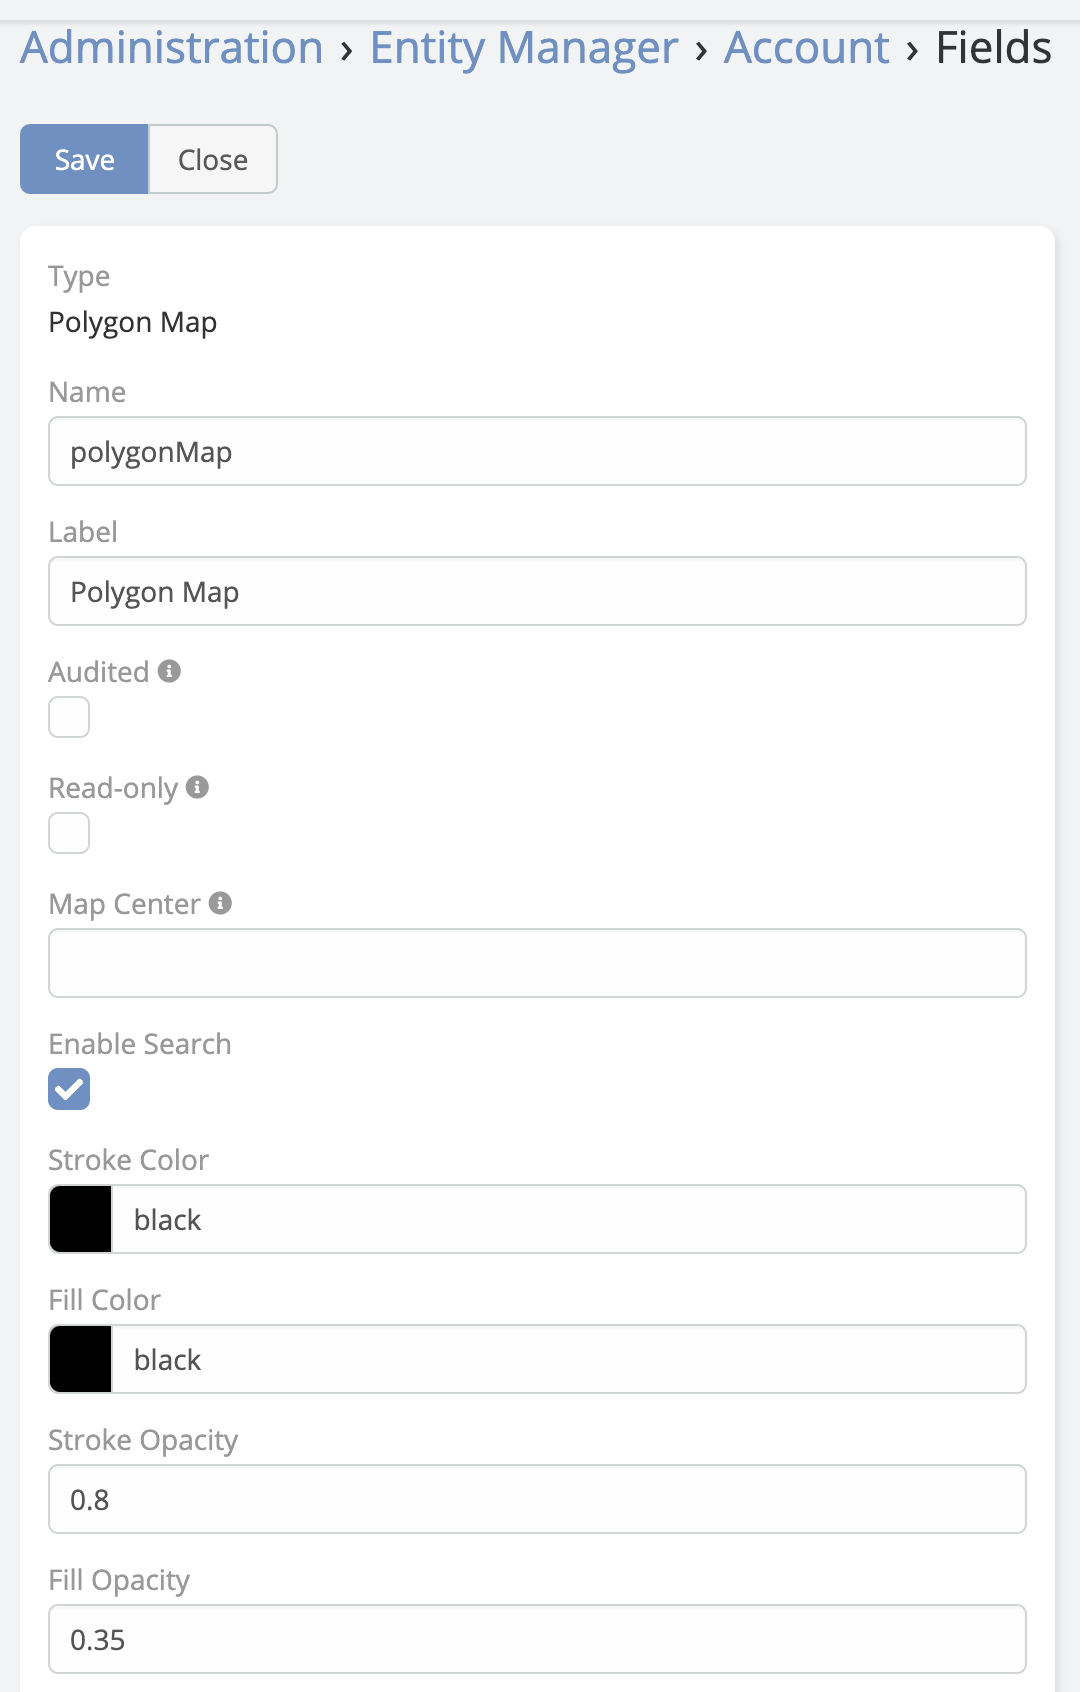
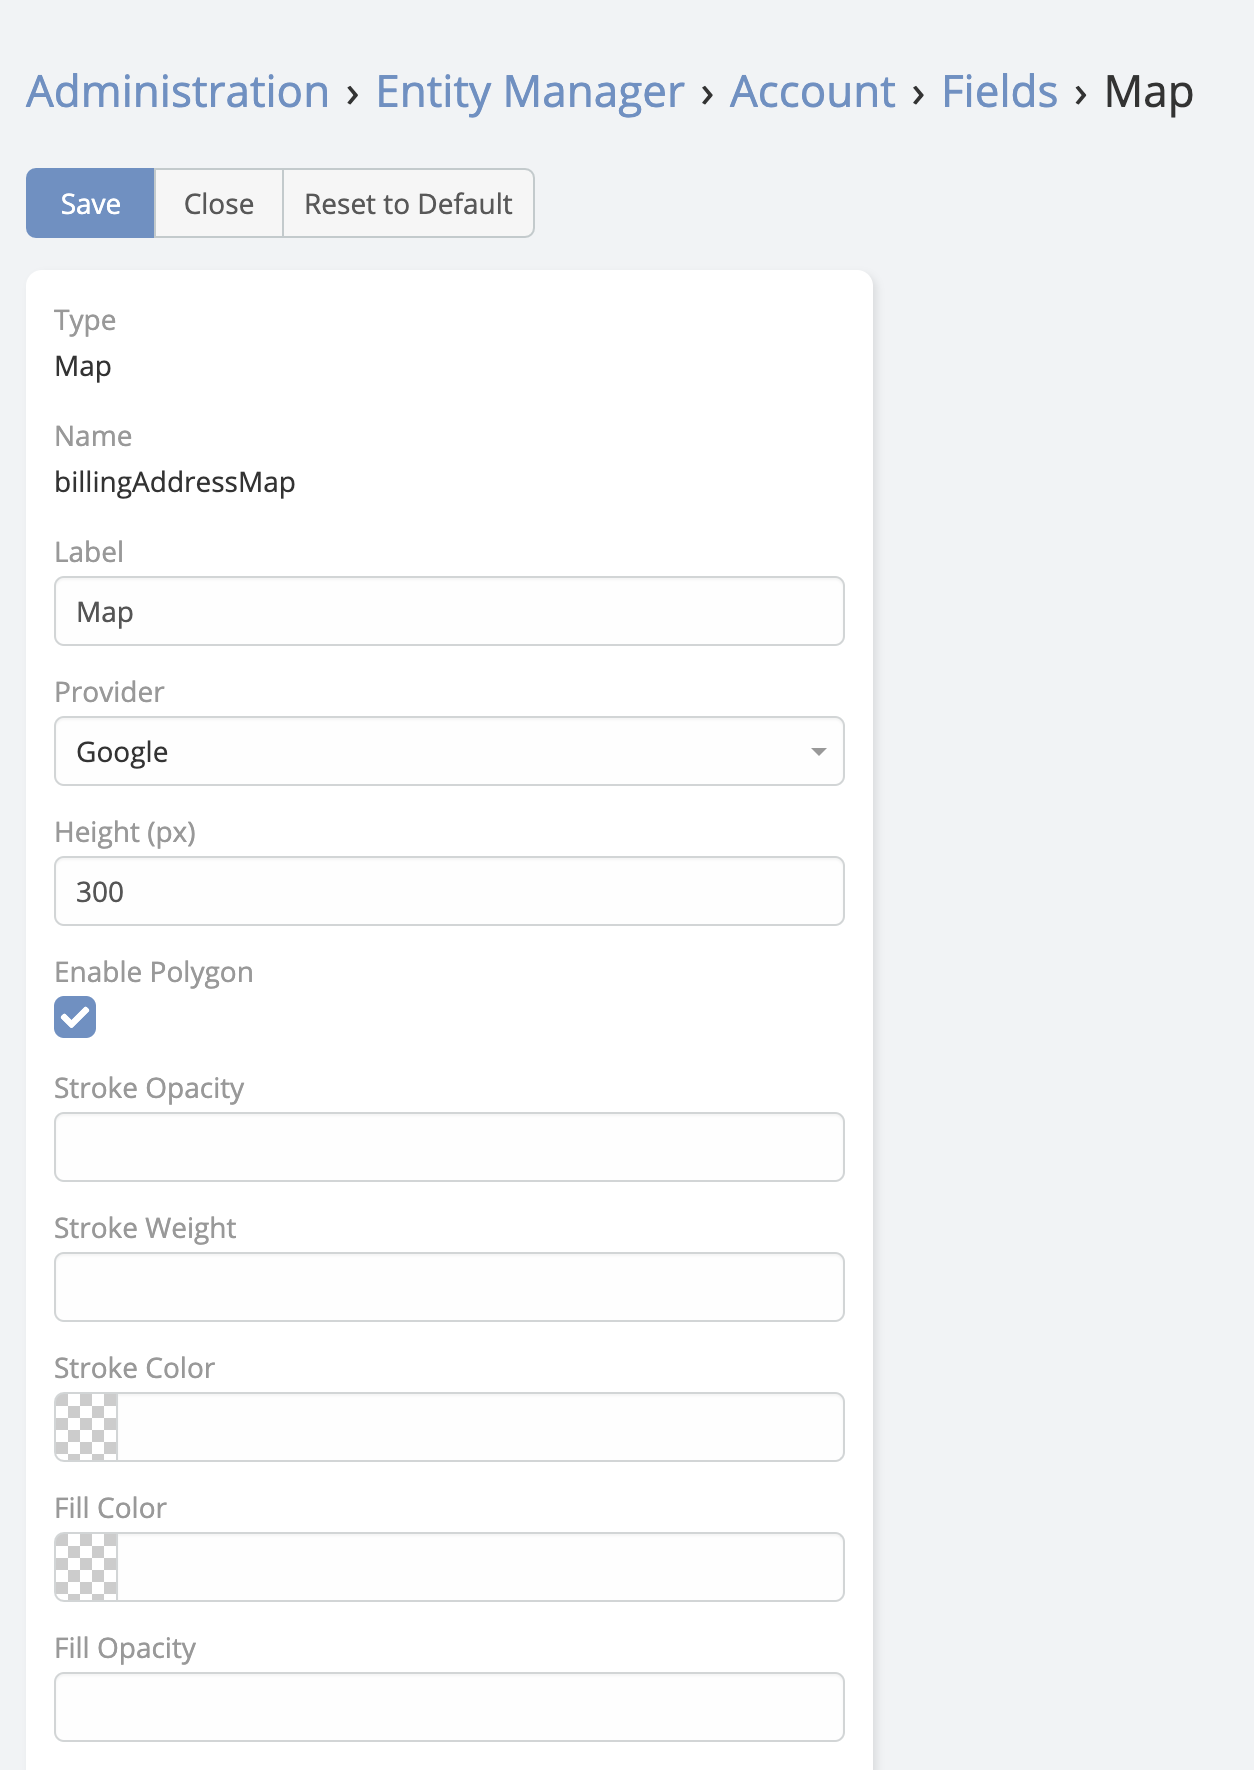
map-plus:polygon

Changed region(s): [[0.0, 0.0, 0.9778, 0.4303], [0.0306, 0.461, 0.7028, 1.0], [0.6722, 0.1844, 0.7028, 0.5532]]

diff --git a/docs/extensions/map-plus/polygon-map.md b/docs/extensions/map-plus/polygon-map.md
@@ -5,12 +5,13 @@ Polygon Map is available in [Ebla Map Plus](https://www.eblasoft.com.tr/espocrm-
 ---
 
 
-> The new **[Polygon Map](https://developers.google.com/maps/documentation/javascript/examples/polygon-simple)** field type allows users to plot a polygon on a map.
+> The new **[Polygon Map](https://developers.google.com/maps/documentation/javascript/examples/polygon-simple)**  in **Map Filed** type allows users to plot a polygon on a map.
 
 ![Polygon Map](../../_static/images/extensions/map-plus/polygon-map.png)
 
+<br>
 
-1. Go to **Administration** -> **Entity Manager** -> **{Entity Type}** -> **Fields** .
-2. Create a new field with type **Polygon Map**.
+1. Go to **Administration** -> **Entity Manager** -> **{Entity Type}** -> **Fields** 
+2. Type field **Map**
 
 ![Polygon Map](../../_static/images/extensions/map-plus/polygon-map-op.png)

diff --git a/docs/index.md b/docs/index.md
@@ -21,6 +21,7 @@
   * [Map Route](extensions/map-plus/map-route.md)
   * [Latitude and Longitude](extensions/map-plus/latitude-and-longitude.md)
   * [Search Place Autocomplete](extensions/map-plus/search-place-autocomplete.md)
+  * [Polygon Map](extensions/map-plus/polygon-map.md)
 
 * [Ebla Chat](extensions/ebla-chat/setting-up.md)
 * [Ebla Rate](extensions/ebla-rate/setting-up.md)
